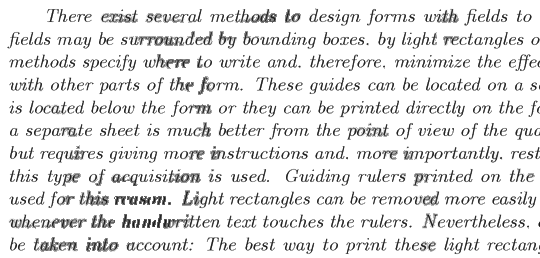
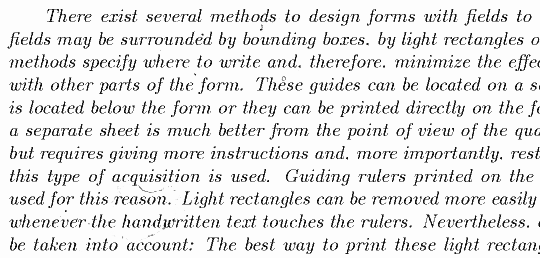
treat each pixel separately in nn, mse=16 but slow

diff --git a/nn/load_train_data.m b/nn/load_train_data.m
@@ -7,13 +7,11 @@ image_count = length(input_images(not([input_images.isdir])));
 rows = 258;
 columns = 540;
 
-block_s1 = 3; %43;
-block_s2 = 3; %45;
 additional_fetures = 5;
-input_size = block_s1*block_s2 + additional_fetures; 
-output_size = block_s1*block_s2; 
+input_size = 1 + additional_fetures; 
+output_size = 1; 
 
-blocks_in_one_image = (rows/block_s1)*(columns/block_s2);
+blocks_in_one_image = (rows)*(columns);
 
 dataset_size = blocks_in_one_image * image_count;
 
@@ -26,15 +24,15 @@ for img = input_images'
     imdata = double(imread(sprintf('%s/%s', train_images_directory, img.name)));
         
     % split image into blocks
-    blocks = reshape(imdata, [block_s1, rows/block_s1, block_s2, columns/block_s2]);
-    [~, s2, ~, s4] = size(blocks);
+    %blocks = reshape(imdata, [block_s1, rows/block_s1, block_s2, columns/block_s2]);
+    %[~, s2, ~, s4] = size(blocks);
     
     index = image_index*blocks_in_one_image+1;
-    for row = 1 : s2
-        for column = 1 : s4            
-            block = blocks(:, row, :, column);
+    for row = 1 : rows
+        for column = 1 : columns            
+            %block = blocks(:, row, :, column);
 
-            feature_vector = create_feature_vector(block);
+            feature_vector = create_feature_vector(imdata, row, column);
             x(:, index) = feature_vector;
             index = index + 1;
         end;
@@ -43,14 +41,14 @@ for img = input_images'
 
     target_imdata = double(imread(sprintf('%s/%s', train_cleaned_images_directory, img.name)));
     
-    target_blocks = reshape(target_imdata, [block_s1, rows/block_s1, block_s2, columns/block_s2]);
+    %target_blocks = reshape(target_imdata, [block_s1, rows/block_s1, block_s2, columns/block_s2]);
     
     index = image_index*blocks_in_one_image+1;
-    for row = 1 : s2
-        for column = 1 : s4            
-            target_block = target_blocks(:, row, :, column);
+    for row = 1 : rows
+        for column = 1 : columns            
+            %target_block = target_blocks(:, row, :, column);
             
-            target_vector = create_target_vector(target_block);
+            target_vector = target_imdata(row, column);
             y(:, index) = target_vector;
             index = index + 1;
         end;

diff --git a/nn/test_nn.m b/nn/test_nn.m
@@ -9,30 +9,27 @@ image_count = length(input_images(not([input_images.isdir])));
 rows = 258;
 columns = 540;
 
-blocks_in_one_image = (rows/block_s1)*(columns/block_s2);
+blocks_in_one_image = (rows)*(columns);
 data_size = blocks_in_one_image * image_count;
 
 for img = input_images'
     % read image
     imdata = double(imread(sprintf('%s/%s', test_images_directory, img.name)));
     [rows, columns] = size(imdata);
-    
-    % split image into blocks
-    blocks = reshape(imdata, [block_s1, rows/block_s1, block_s2, columns/block_s2]);
-    [s1, s2, s3, s4] = size(blocks);
-    
-    for row = 1 : s2
-        for column = 1 : s4            
-            block = blocks(:, row, :, column);
+    img_matrix = zeros(rows, columns);
+       
+    for row = 1 : rows
+        for column = 1 : columns            
+            %block = blocks(:, row, :, column);
 
-            feature_vector = create_feature_vector(block);            
+            feature_vector = create_feature_vector(imdata, row, column);            
             predicted = sim(net, feature_vector);
             
-            blocks(:, row, :, column) = reshape(predicted, block_s1, block_s2); 
+            img_matrix(row, column) = predicted; 
         end;
     end;
     
-    img_matrix = uint8(round(reshape(blocks, rows, columns)));
+    img_matrix = uint8(round(img_matrix));
     expected = imread(sprintf('%s/%s', target_images_directory, img.name));
     mseError = mse(expected - img_matrix)
 

diff --git a/nn/create_feature_vector.m b/nn/create_feature_vector.m
@@ -1,22 +1,16 @@
 % function converts single image into vector of features
-function [feature_vector, columns] = create_feature_vector(imdata)
-    [rows, columns] = size(imdata);
-   
+function feature_vector = create_feature_vector(imdata, r, c)
     % collect features for each pixel
    
-    feature_vector = zeros(rows*columns + 5, 1);
+    feature_vector = zeros(6, 1);
     
     % first, put pixels itself as features
     index = 1;
-    for r = 1 : rows
-        for c = 1 : columns
             pixel = imdata(r, c);
             feature_vector(index) = pixel;
-            index = index + 1;
-        end
-    end
+            index = index+1;
     % add other festures   
-    vec = reshape(imdata, rows*columns, 1);
+    vec = get_neighbours(imdata, r, c);
     feature_vector(index) = range(vec);
     index = index + 1;
     feature_vector(index) = var(vec);
